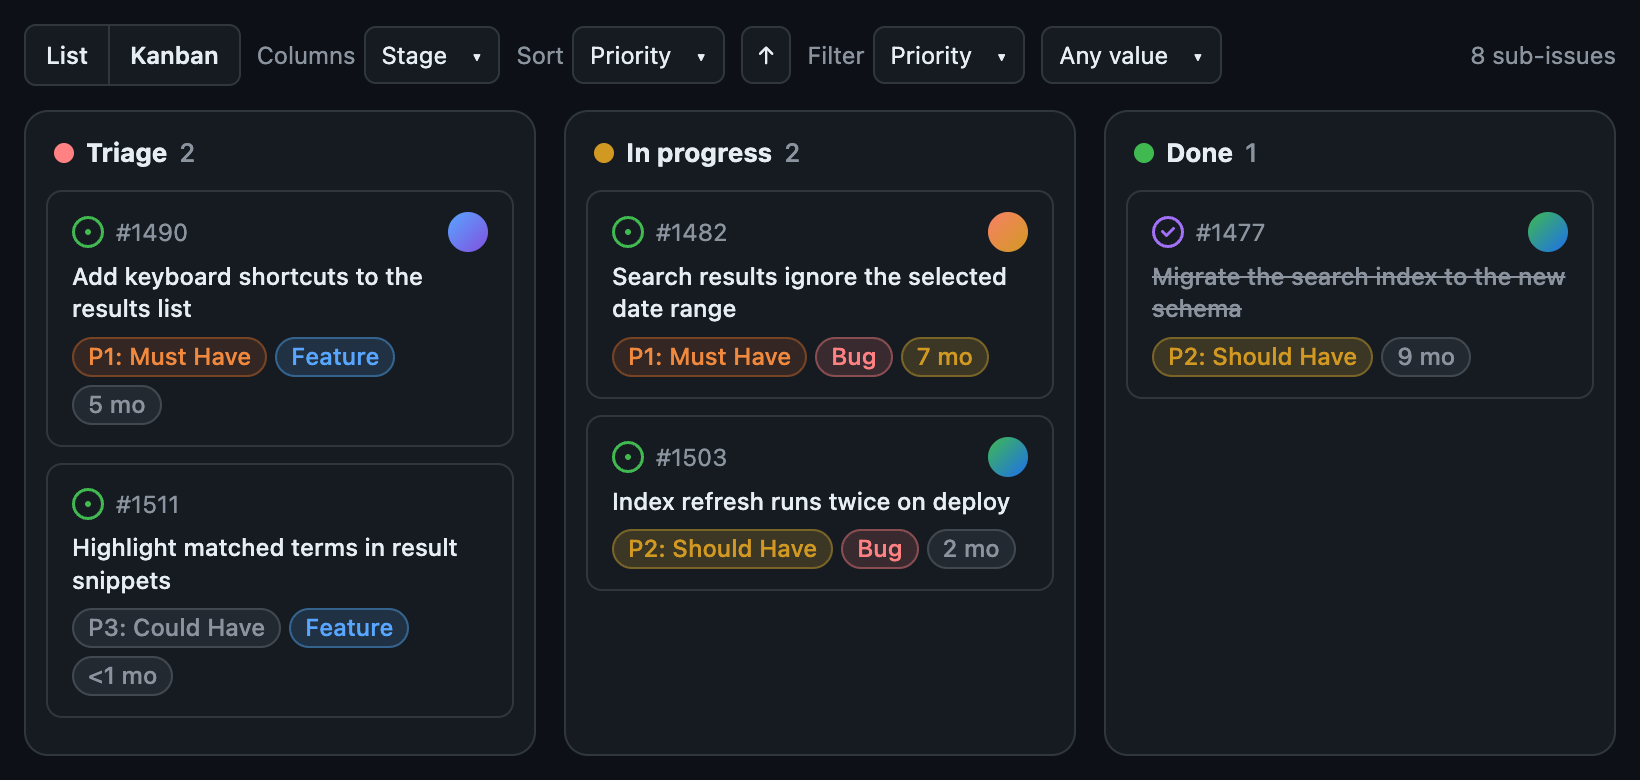
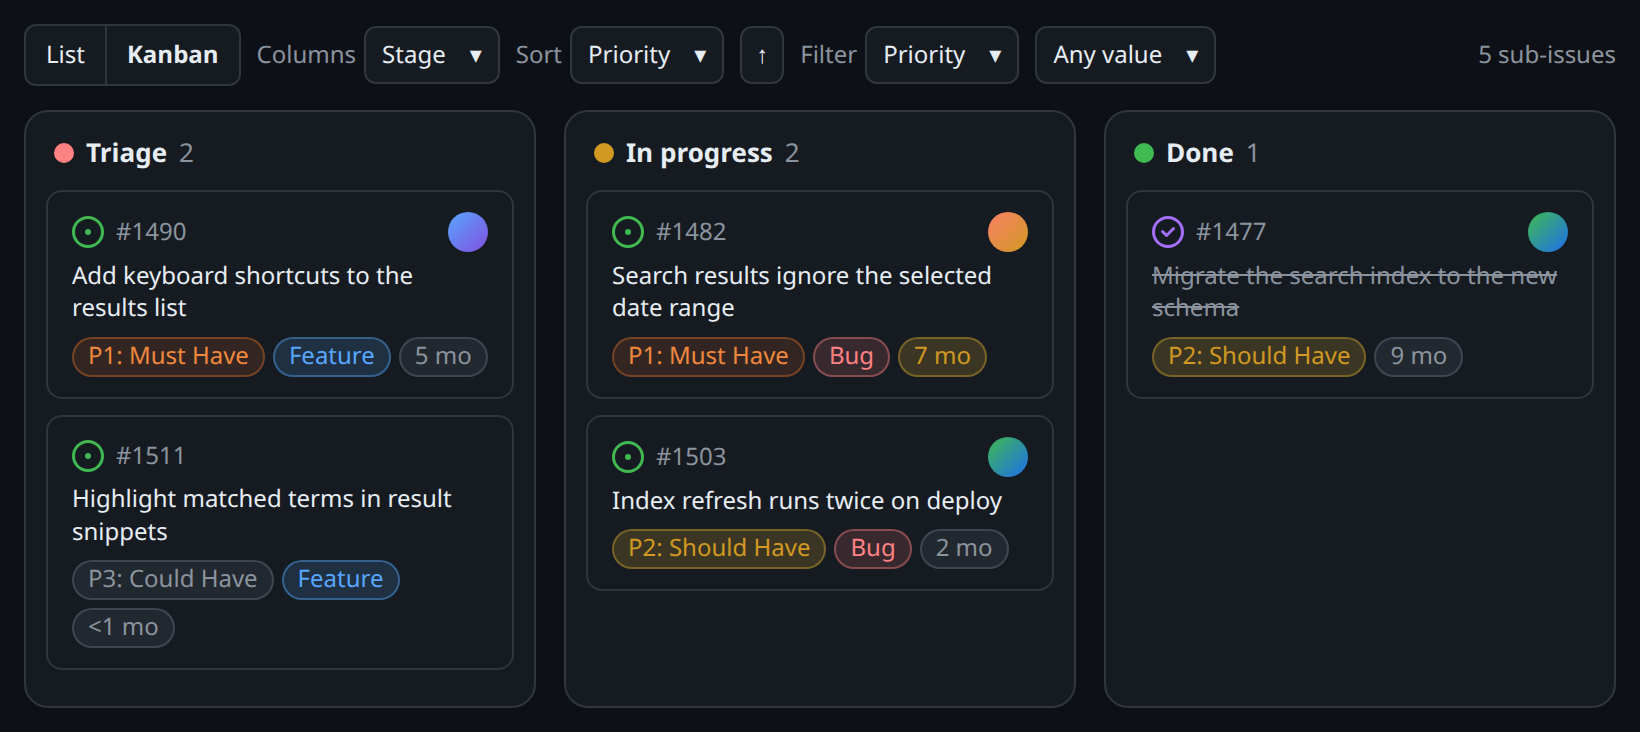
fix(kanban): keep every option column droppable, hold a board's fields across moves, and reset it between epics
Review follow-ups for the epic kanban and the sidebar button. A single-select field with more than ten options built its columns without the ids a drop needs, so nothing on such a board could be dragged; the board derived a field's option list from the cards currently holding a value, so dragging the last card into the "No field" column made the field disappear and regrouped the board by something else; and navigating from one epic to another kept the previous board on screen while the new one loaded. The rendered images are regenerated on the maintainer's machine so their fonts match the rest of the site, and the docs get the last few words about the new writes.

- Seed a column for every option of a single-select field, with its field and option ids, and only decide afterwards whether the empty ones are drawn, so dragging works on long option lists too.
- Take each field's id and option list once from the fetched payload and keep them on the epic's cache entry, so columns, choices and drop targets survive the last card of a value being moved away.
- Empty the board and the Columns, Sort and Filter choices when the open epic changes, and show the loading message again, instead of leaving another epic's cards under the new issue.
- Skip the rows of a sub-issues list the board has replaced, which were fetched a second time and given badges nobody could see.
- Track in-flight epic loads as a set, so leaving an epic while it loads no longer clears the guard for the next one.
[…]

diff --git a/content.js b/content.js
@@ -111,6 +111,8 @@
 
     const containers = document.querySelectorAll('[data-testid="sub-issues-issue-container"], [data-testid*="sub-issues"]');
     for (const container of containers) {
+      // A list the kanban board has replaced is hidden: its rows are not worth a query or a badge.
+      if (container.closest(".gsf-kanban-hidden")) continue;
       for (const li of container.querySelectorAll('li[role="treeitem"]')) {
         if (seen.has(li)) continue;
         seen.add(li);
@@ -575,10 +577,11 @@
 
   // `filterValue` is a column key, so "" is a real value (the items with nothing) and "*" means every value.
   let kanban = { on: false, groupBy: "", sortBy: "number", sortDir: "asc", filterBy: "", filterValue: "*" };
-  const epicCache = new Map(); // "owner/repo#n" -> { at, items, total, fields }
-  let epicPending = null;
+  const epicCache = new Map(); // "owner/repo#n" -> { at, items, total, fields, fieldDefs }
+  const epicPending = new Set();
   let barParts = null;
   let boardRoot = null;
+  let boardEpicKey = null;
   let boardSignature = null;
   let noteTimer = null;
   let dragKey = null;
@@ -604,7 +607,7 @@
   // The values that dimension actually holds, in column order, each with how many issues carry it.
   function filterValueChoices(data) {
     if (!kanban.filterBy) return [];
-    const columns = columnsOf(data.items, kanban.filterBy).filter((column) => column.items.length);
+    const columns = columnsOf(data.items, kanban.filterBy, data.fieldDefs).filter((column) => column.items.length);
     return [{ id: "*", label: "Any value" }, ...columns.map((column) => ({ id: column.key, label: `${column.label} (${column.items.length})` }))];
   }
 
@@ -613,11 +616,29 @@
     return item.values.find((v) => v.field.toLowerCase() === name) || null;
   }
 
+  // The fields the loaded sub-issues carry, with the id and option list of the single-select ones, taken
+  // once from the fetched payload: a board grouped by a field keeps its columns and stays droppable even
+  // after the last card holding a value for it is dragged into the "No field" column.
+  function fieldDefsOf(items) {
+    const defs = new Map();
+    for (const item of items) {
+      for (const v of item.values) {
+        const key = v.field.toLowerCase();
+        const def = defs.get(key) || { name: v.field, fieldId: null, options: [] };
+        if (!def.fieldId && v.fieldId) def.fieldId = v.fieldId;
+        if (!def.options.length && v.options && v.options.length) def.options = v.options;
+        defs.set(key, def);
+      }
+    }
+    return defs;
+  }
+
   // Everything the loaded sub-issues can be grouped or ordered by: the fields they carry, in the order the
   // settings list them so the field you care about comes first, then the ones GitHub gives every issue.
   function fieldChoices(data) {
     const configured = (data.fields || []).map((f) => f.toLowerCase());
     const found = new Map();
+    for (const [key, def] of data.fieldDefs || []) found.set(key, def.name);
     for (const item of data.items) {
       for (const v of item.values) if (!found.has(v.field.toLowerCase())) found.set(v.field.toLowerCase(), v.field);
     }
@@ -665,10 +686,11 @@
 
   // Columns in the order the organization defined the field's options, so a board grouped by a stage reads
   // left to right the way the stage does. Without an option list there is nothing to follow but the labels.
-  function columnsOf(items, groupBy) {
+  function columnsOf(items, groupBy, fieldDefs) {
     const columns = new Map();
     const none = { key: "", label: emptyLabel(groupBy), color: "GRAY", items: [] };
     const order = [];
+    let trimEmpty = false;
     const seed = (column) => {
       order.push(column.key);
       columns.set(column.key, column);
@@ -678,15 +700,17 @@
       seed({ key: "closed", label: "Closed", color: "PURPLE", state: "CLOSED", items: [] });
     } else if (groupBy.startsWith("field:")) {
       const name = groupBy.slice(6);
-      const defined = items.map((item) => valueOf(item, name)).find((v) => v && v.options && v.options.length);
+      const def = fieldDefs ? fieldDefs.get(name.toLowerCase()) : null;
+      const defined = def && def.options.length ? def : items.map((item) => valueOf(item, name)).find((v) => v && v.options && v.options.length);
       const options = defined ? defined.options : [];
       none.fieldId = defined ? defined.fieldId : null;
       none.options = options;
+      // Every option gets a column carrying the ids a drop needs, whatever the length of the list; whether
+      // the empty ones are drawn is decided below.
       for (const option of options) {
-        const column = { key: `value:${option.name}`, label: option.name, color: option.color || "GRAY", fieldId: none.fieldId, optionId: option.id, options, items: [] };
-        if (options.length <= EMPTY_COLUMN_LIMIT) seed(column);
-        else order.push(column.key);
+        seed({ key: `value:${option.name}`, label: option.name, color: option.color || "GRAY", fieldId: none.fieldId, optionId: option.id, options, items: [] });
       }
+      trimEmpty = options.length > EMPTY_COLUMN_LIMIT;
     }
     for (const item of items) {
       const bucket = bucketOf(item, groupBy);
@@ -697,7 +721,8 @@
       if (!columns.has(bucket.key)) columns.set(bucket.key, { ...bucket, items: [] });
       columns.get(bucket.key).items.push(item);
     }
-    const list = [...columns.values()];
+    let list = [...columns.values()];
+    if (trimEmpty) list = list.filter((column) => column.items.length);
     if (order.length) {
       const rank = (column) => (order.indexOf(column.key) < 0 ? order.length : order.indexOf(column.key));
       list.sort((a, b) => rank(a) - rank(b));
@@ -796,7 +821,7 @@
     if (!response || response.error) {
       Object.assign(item, before);
       setBoardNote(response && response.error === "NO_TOKEN"
-        ? "Moving a card needs a token with write access to the issue's repository."
+        ? "Add a GitHub token in the extension settings to move cards."
         : `Could not move #${item.number}: ${response ? response.error : "unknown error"}`, true);
       redrawBoard();
       return;
@@ -1125,7 +1150,7 @@
       return;
     }
     const root = boardRoot;
-    const columns = columnsOf(items, kanban.groupBy);
+    const columns = columnsOf(items, kanban.groupBy, data.fieldDefs);
     const movable = columns.some((column) => canDrop(column, kanban.groupBy));
     root.title = movable || !settings.kanbanDrag
       ? ""
@@ -1142,28 +1167,29 @@
   }
 
   async function loadEpic(list, epic) {
-    if (epicPending === epic.key) return;
-    epicPending = epic.key;
+    if (epicPending.has(epic.key)) return;
+    epicPending.add(epic.key);
     setBarStatus("Loading sub-issues...");
-    if (!boardRoot || !boardRoot.isConnected) showBoardMessage(list, "Loading sub-issues...");
+    if (!boardRoot || !boardRoot.isConnected || !boardRoot.childElementCount) showBoardMessage(list, "Loading sub-issues...");
     let response;
     try {
       response = await api.runtime.sendMessage({ type: "fetchEpic", issue: { owner: epic.owner, repo: epic.repo, number: epic.number } });
     } catch (err) {
       response = { error: err && err.message ? err.message : String(err) };
     } finally {
-      epicPending = null;
+      epicPending.delete(epic.key);
     }
     if (!response || response.error) {
       const message = response && response.error === "NO_TOKEN"
         ? "Add a GitHub token in the extension settings to show the board."
         : `Could not load the sub-issues: ${response ? response.error : "unknown error"}`;
-      epicCache.set(epic.key, { at: Date.now(), items: [], total: 0, fields: [], error: message });
+      epicCache.set(epic.key, { at: Date.now(), items: [], total: 0, fields: [], fieldDefs: new Map(), error: message });
       boardSignature = null;
       schedule();
       return;
     }
-    epicCache.set(epic.key, { at: Date.now(), items: response.items || [], total: response.total || 0, fields: response.fields || [] });
+    const items = response.items || [];
+    epicCache.set(epic.key, { at: Date.now(), items, total: response.total || 0, fields: response.fields || [], fieldDefs: fieldDefsOf(items) });
     boardSignature = null;
     schedule();
   }
@@ -1189,6 +1215,13 @@
       return;
     }
     list.classList.add("gsf-kanban-hidden");
+    if (boardEpicKey !== epic.key) {
+      // Another epic: the previous board and the choices its fields offered must not linger while this one loads.
+      boardEpicKey = epic.key;
+      boardSignature = null;
+      if (boardRoot) boardBody();
+      if (barParts) for (const select of [barParts.group, barParts.sort, barParts.filter, barParts.filterValue]) select.textContent = "";
+    }
     const hit = epicCache.get(epic.key);
     if (hit && Date.now() - hit.at < CACHE_TTL_MS) renderBoard(list, epic, hit);
     else {

diff --git a/docs/index.html b/docs/index.html
@@ -4,11 +4,11 @@
   <meta charset="utf-8">
   <meta name="viewport" content="width=device-width, initial-scale=1">
   <title>GitHub Issue Toolkit</title>
-  <meta name="description" content="Browser extension that shows custom issue fields, issue age and pull request badges on GitHub lists and Projects views, with a pinned epics panel.">
+  <meta name="description" content="Browser extension that shows custom issue fields, issue age and pull request badges on GitHub lists and Projects views, turns an epic's sub-issues into a kanban board, and keeps pinned epics one click away.">
   <link rel="icon" href="icon-dark-32.png">
   <meta property="og:type" content="website">
   <meta property="og:title" content="GitHub Issue Toolkit">
-  <meta property="og:description" content="Custom issue fields, issue age, pull request badges and pinned epics on GitHub lists and Projects views.">
+  <meta property="og:description" content="Custom issue fields, issue age, pull request badges, an epic kanban board and pinned epics on GitHub lists and Projects views.">
   <meta property="og:url" content="https://milospaunovic.github.io/github-issue-toolkit/">
   <meta property="og:image" content="https://milospaunovic.github.io/github-issue-toolkit/social-preview.png">
   <meta name="twitter:card" content="summary_large_image">
@@ -333,7 +333,7 @@
       <img class="only-dark" src="icon-dark-128.png" alt="">
       <img class="only-light" src="icon-light-128.png" alt="">
       <h1>GitHub Issue Toolkit</h1>
-      <p class="lead">See your organization's <strong>custom issue fields</strong> on every sub-issue of an epic and on every row of a Projects view, and who is behind each <strong>pull request</strong>, right where GitHub shows only the issue type.</p>
+      <p class="lead">See your organization's <strong>custom issue fields</strong> on every sub-issue of an epic and on every row of a Projects view, and who is behind each <strong>pull request</strong>, right where GitHub shows only the issue type. Read an epic's sub-issues as a <strong>kanban board</strong> and drag a card to move it.</p>
       <div class="btns">
         <a class="btn primary" href="#install">Install</a>
         <a class="btn" href="https://github.com/MilosPaunovic/github-issue-toolkit">View on GitHub</a>
@@ -423,7 +423,7 @@
           <span class="ctl">Filter <span class="select">Priority <span aria-hidden="true">&#9662;</span></span></span>
           <span class="select">Any value <span aria-hidden="true">&#9662;</span></span>
           <span class="spacer"></span>
-          <span>8 sub-issues</span>
+          <span>5 sub-issues</span>
         </div>
         <div class="mock-board">
           <div class="mock-column"><h4><span class="dot" style="background:var(--danger)"></span> Triage <span class="count">2</span></h4>

diff --git a/content.css b/content.css
@@ -237,7 +237,9 @@
   border-radius: 6px;
   background: var(--button-default-bgColor-rest, var(--bgColor-default));
   color: var(--fgColor-default);
-  font: 500 11px/1 inherit;
+  font-size: 11px;
+  font-weight: 500;
+  line-height: 1;
   font-family: inherit;
   padding: 4px 8px;
   cursor: pointer;
@@ -269,7 +271,7 @@
   border-radius: 6px;
   background: var(--bgColor-default);
   color: var(--fgColor-default);
-  font: 12px inherit;
+  font-size: 12px;
   font-family: inherit;
 }
 .gsf-pins-form input:focus {
@@ -331,7 +333,9 @@
   border-radius: 6px;
   background: var(--button-default-bgColor-rest, var(--bgColor-default));
   color: var(--fgColor-default);
-  font: 500 12px/1 inherit;
+  font-size: 12px;
+  font-weight: 500;
+  line-height: 1;
   font-family: inherit;
   padding: 5px 10px;
   cursor: pointer;
@@ -363,7 +367,7 @@
   border-radius: 6px;
   background: var(--bgColor-default);
   color: var(--fgColor-default);
-  font: 12px inherit;
+  font-size: 12px;
   font-family: inherit;
 }
 .gsf-kanban-bar .gsf-kanban-dir {

diff --git a/PRIVACY.md b/PRIVACY.md
@@ -6,7 +6,7 @@ GitHub Issue Toolkit is a browser extension that displays the values of GitHub c
 
 - **GitHub personal access token.** You enter it on the extension's settings page. It is stored with `chrome.storage.local`, on your device only, and is sent exclusively to `https://api.github.com/graphql` in the `Authorization` header. It is never sent anywhere else. All requests read data (issue field values, creation dates, the sub-issues of an issue you view as a board, and the title and type of issues you pin), with two exceptions: when you click **Link** in the pinned issues panel, the extension makes the current issue a sub-issue of the pinned one (`addSubIssue`), and when you drag a card to another column on the kanban board, it writes that column's value to the issue (`createIssueFieldValue`, `deleteIssueFieldValue`) or closes and reopens the issue (`closeIssue`, `reopenIssue`). Nothing is written without that click or that drag.
 - **Issue and pull request references.** For the issues and pull requests visible on the page you are viewing (sub-issue lists, project tables and boards, pull request lists), the extension sends the repository owner, repository name and number to the GitHub API to fetch the field values, creation dates, and for pull requests the author's relation to the repository, fork origin, size and merge state. With the kanban board open it sends the owner, name and number of the issue you are looking at to read its sub-issues: their numbers, titles, states, types, assignees, creation dates and field values. Results are kept in memory for a few minutes and are discarded when the tab closes.
-- **Settings and pins.** Your list of field names, the age badge, pull request badge, kanban, sidebar and pinned issues preferences (including the field the board groups by, the one it orders by, and whether the issue sidebar is folded away), and the issues you pin (repository, number, title, type) are stored with `chrome.storage.local` on your device.
+- **Settings and pins.** Your list of field names, the age badge, pull request badge, kanban, sidebar and pinned issues preferences (including whether the board or the list is shown, the field the board groups by, the one it orders by, the filter, and whether the issue sidebar is folded away), and the issues you pin (repository, number, title, type) are stored with `chrome.storage.local` on your device.
 
 ## Data the extension does not handle
 

diff --git a/README.md b/README.md
@@ -6,7 +6,7 @@
 
 Browser extension that shows the values of your organization's custom GitHub **issue fields** as badges on every row of the **Sub-issues** list of an issue and on **Projects** views (table and board), plus the **age** of each issue and **pull request** badges that tell you who is behind each PR. An epic's sub-issues can be read as a **kanban board** grouped, ordered and filtered by the fields you choose, where dragging a card writes the new value back, and a small **Pinned issues** panel keeps your epics one click away so you can link the issue you are looking at to them. Works in Chrome, Edge, Brave and other Chromium browsers, and in Firefox.
 
-GitHub itself only shows the issue type there. This extension reads the field values through the GitHub GraphQL API, in batched queries covering all visible rows, across repositories. Everything is read-only except the optional linking of an issue to a pinned epic, which writes through the same API.
+GitHub itself only shows the issue type there. This extension reads the field values through the GitHub GraphQL API, in batched queries covering all visible rows, across repositories. Everything is read-only except two things you do yourself: linking an issue to a pinned epic, and dragging a card to another column on the kanban board, both of which write through the same API.
 
 ## What it looks like
 
